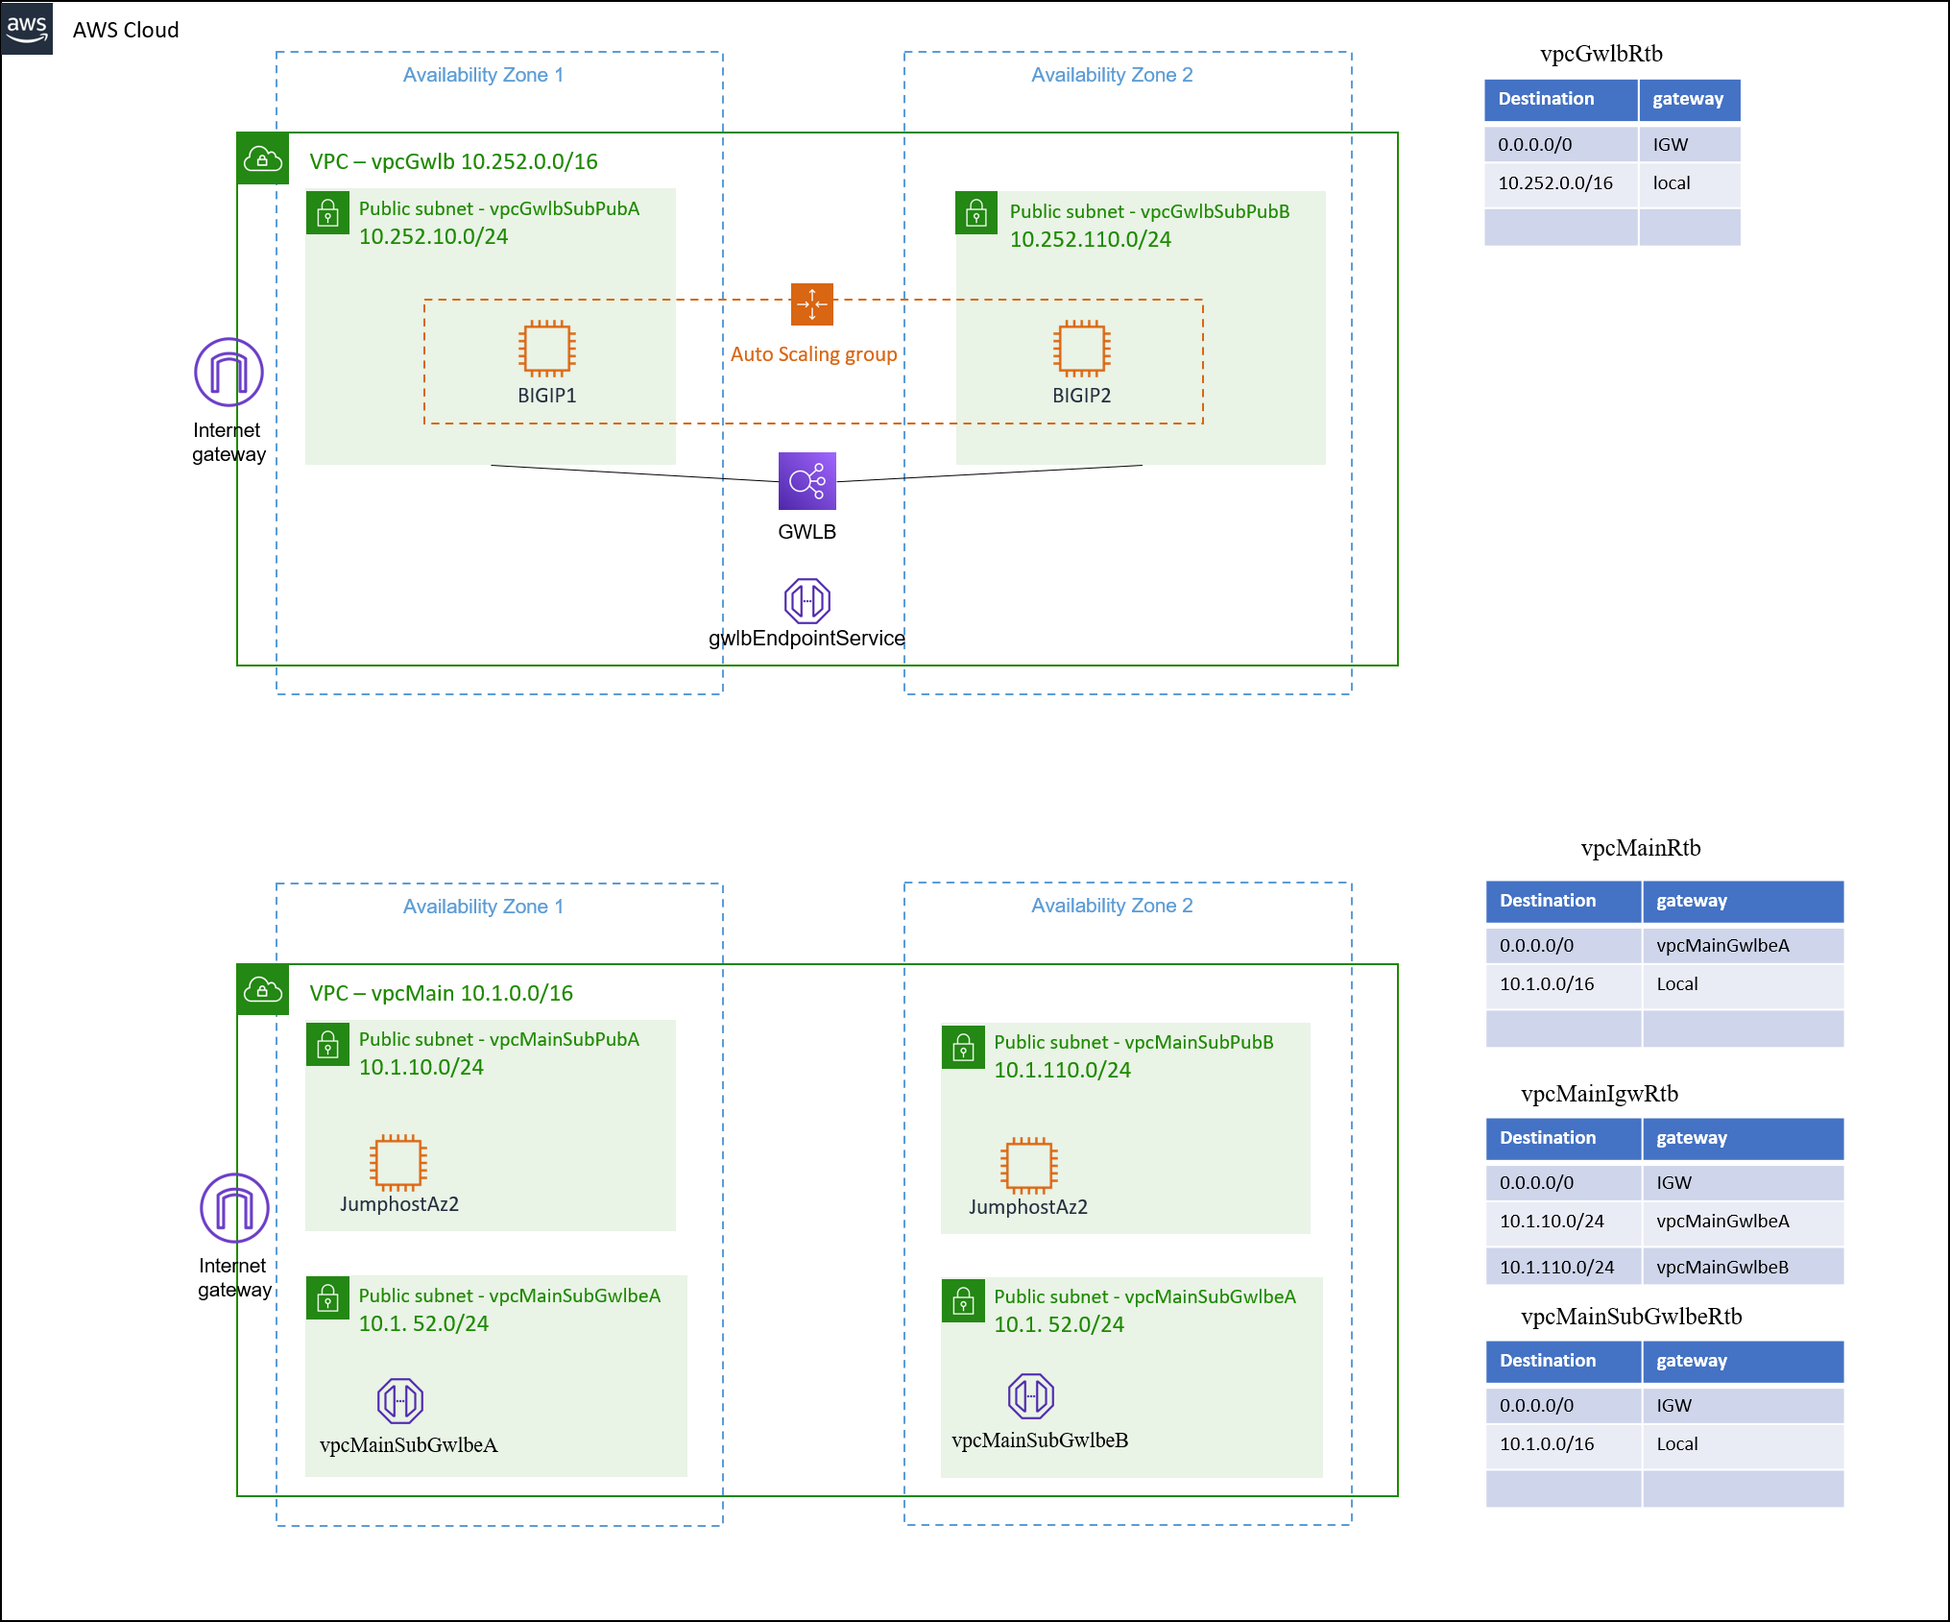
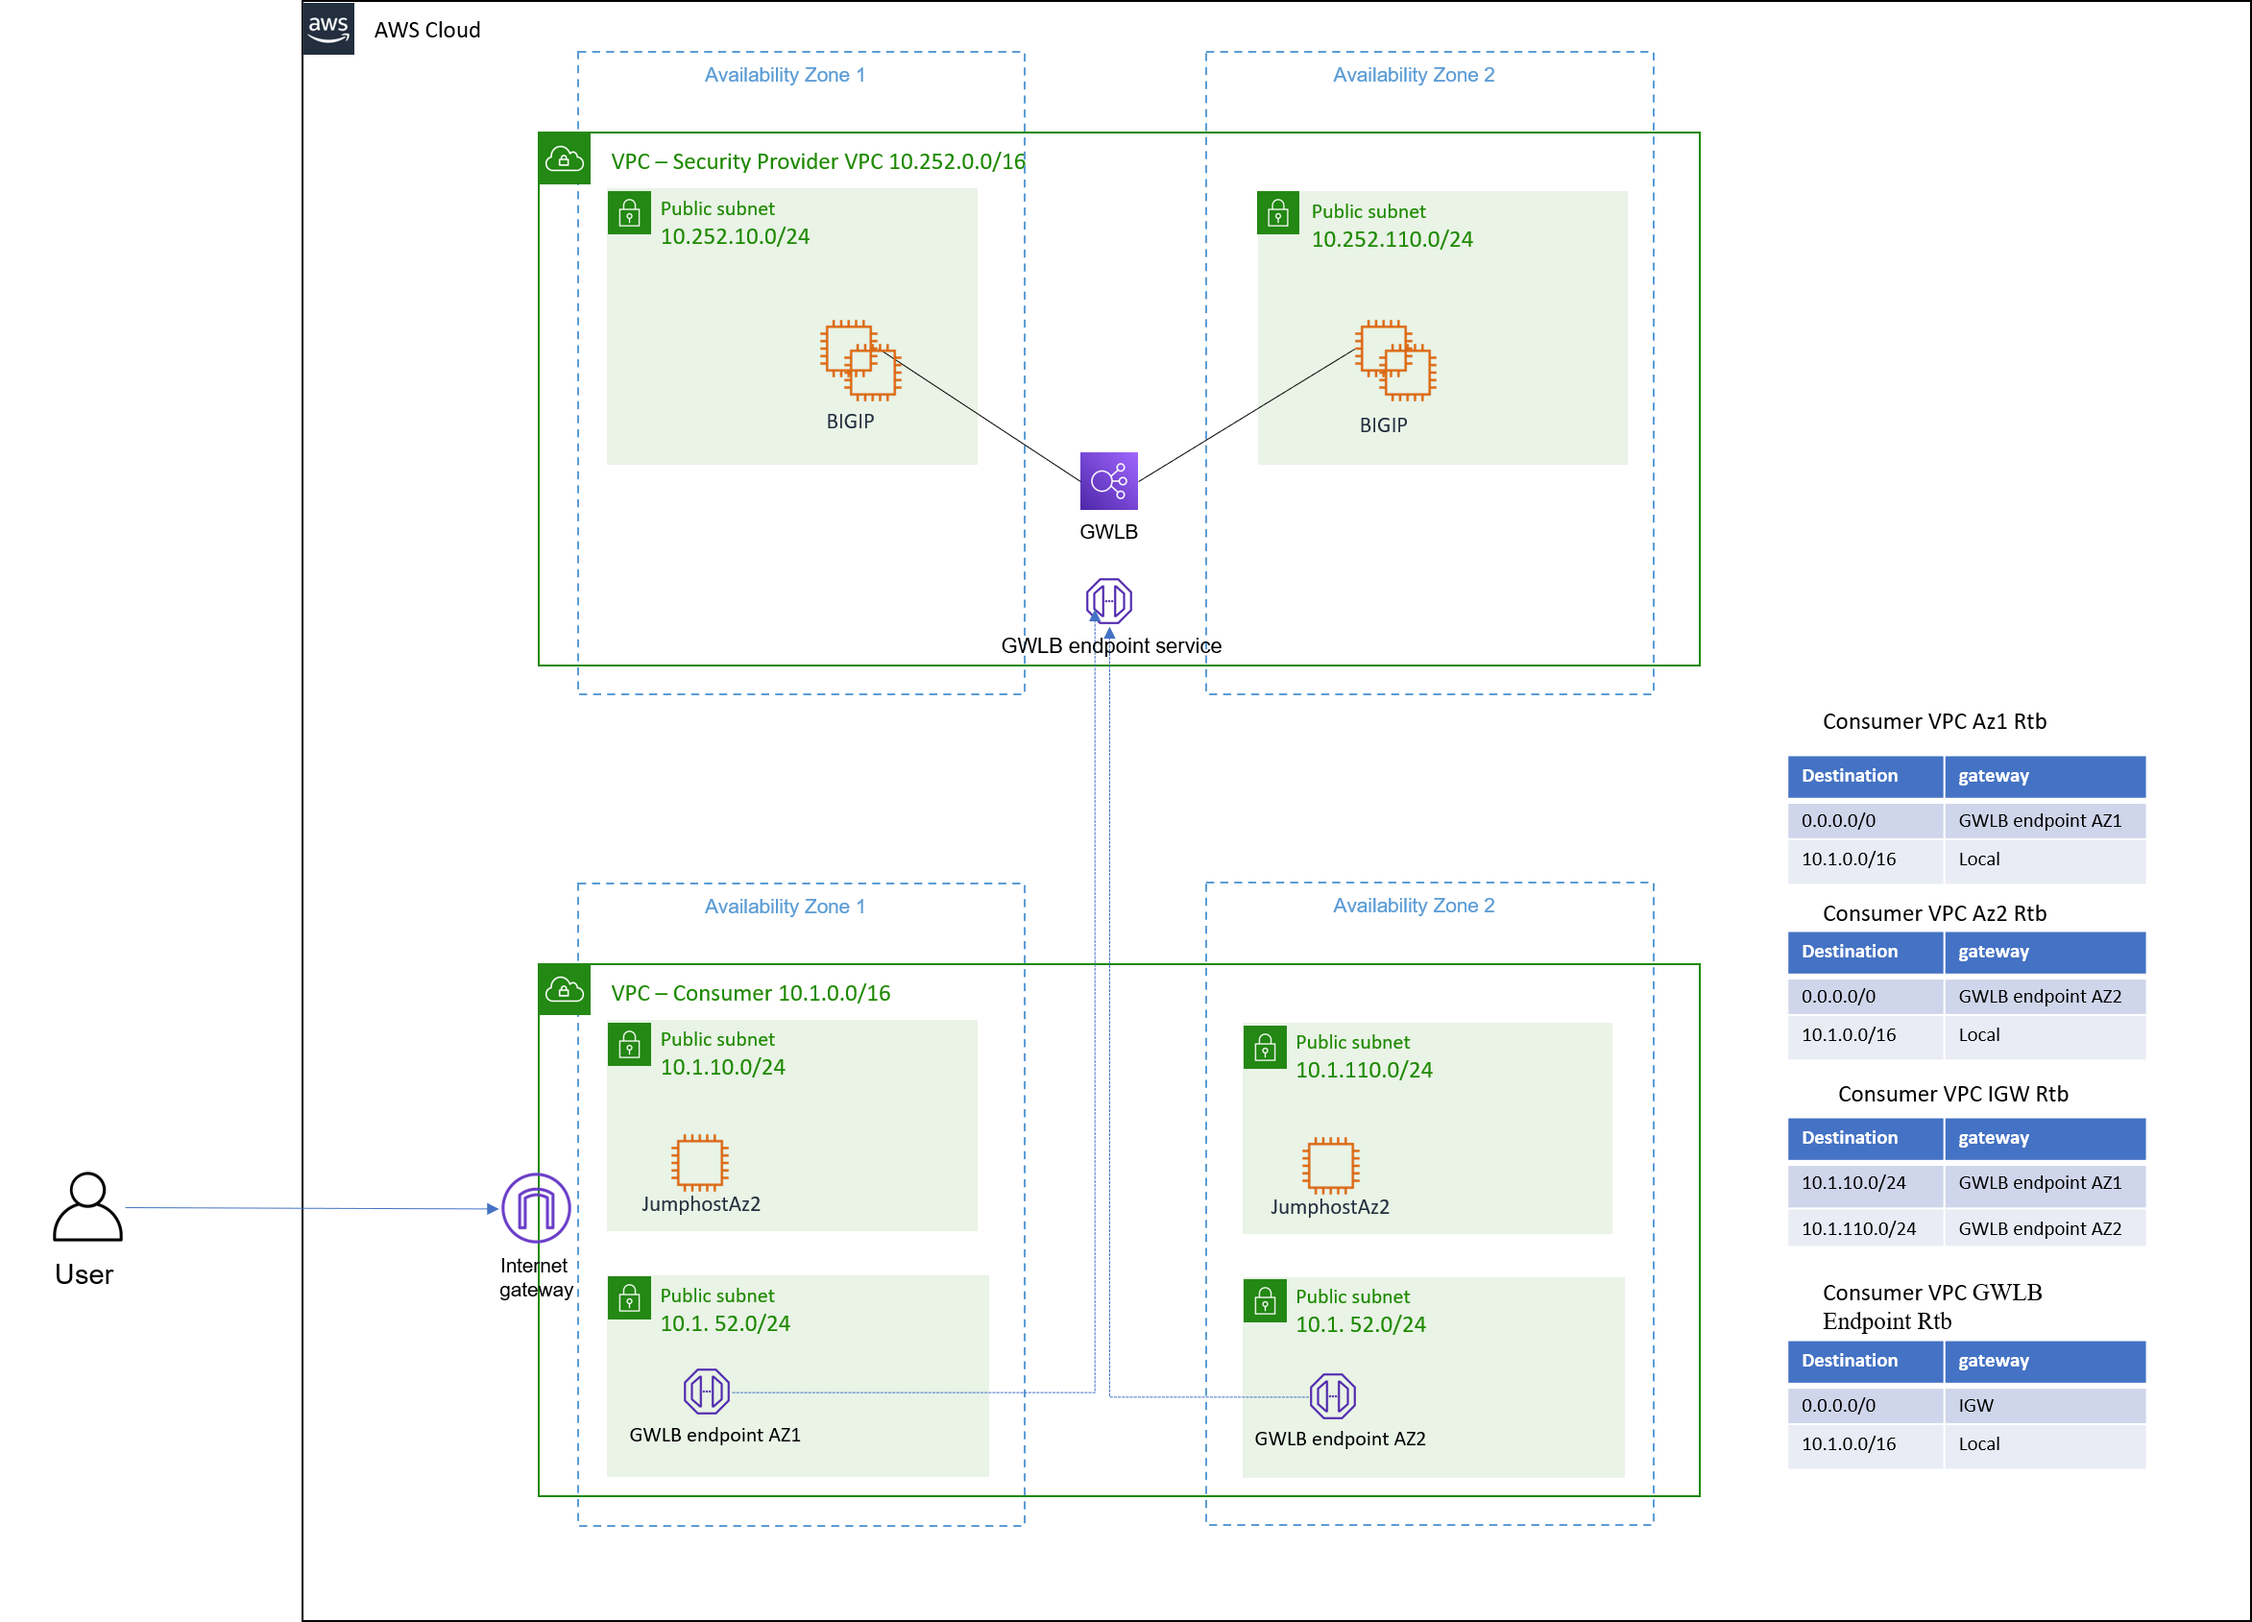
BIGIP to version 16.1 in GWLB solution, readme files updates

diff --git a/solutions/security/ingress-egress-inter-vpc-fw-gwlb/README.md b/solutions/security/ingress-egress-inter-vpc-fw-gwlb/README.md
@@ -3,13 +3,17 @@ ingress-egress and inter-vpc firewall in AWS using AFM and GWLB
 
 ## Diagram
 
-![ingress-egress firewall to a single VPC using GWLB](ingress-egress-inter-vpc-fw.png)
+![ingress-egress-inter-vpc firewall using GWLB](ingress-egress-inter-vpc-WITH-sec.png)
 
+![Spoke10 to the internet traffic flow](spoke10-to-internet.png)
 
+![Spoke10 to spoke20 traffic flow](spoke10-to-spoke20.png)
+
+![user to spoke10 service traffic flow](user-to-spoke10-service.png)
 ## Requirements
 
 - Solution was tested only on us-west-2, the region has to support GWLB.
-- Subscribe to the F5 PAYG-Best 200Mbps image from the AWS marketplace - https://aws.amazon.com/marketplace/pp/B079C3N5PX?qid=1614637412553&sr=0-1&ref_=srh_res_product_title
+- Subscribe to the F5 PAYG-Best 1Gbps image from the AWS marketplace - https://aws.amazon.com/marketplace/pp/prodview-atilk7h6dqu6k?ref_=srh_res_product_title
 
 ## Usage example
 
@@ -26,18 +30,25 @@ cp admin.auto.tfvars.example admin.auto.tfvars
 # MODIFY TO YOUR SETTINGS
 ```
 
-run the setup script to deploy all of the components into your AWS account (remember that you are responsible for the cost of those components)
+run the terraform plan to deploy all of the components into your AWS account (remember that you are responsible for the cost of those components)
 
 ```bash
-./setup.sh
+terraform init
+terraform plan
+terraform apply
 ```
 
 ## BIGIP configuration steps
 
 Connect to the BIGIP using the bigipPublicIp and bigipPassword over port 8443. https://quickstart:bigipPassword@bigipPublicIp:8443
 
-Upload the 16.1 ISO image, install it and boot the BIGIP.
+Username: quickstart
 
+Password: bigipPassword output value
+
+Please note it takes a few minutes for the BIGIP to complete the onboarding process, once it's done you will be able to ssh into the jumphost.
+
+The BIGIP gets configured with a forwarding virtual server to route accept the traffic inside the GENEVE tunnel and apply relevant security controls on it.
 
 Create your AFM policy and logging configuration
 
@@ -64,7 +75,7 @@ monitor the traffic in AFM
 use the following command to destroy all of the resources
 
 ```bash
-./destroy.sh
+terraform destroy
 ```
 
 ## Providers

diff --git a/solutions/security/ingress-egress-fw/README.md b/solutions/security/ingress-egress-fw/README.md
@@ -5,13 +5,13 @@ ingress-egress firewall to a single VPC using GWLB
 
 ![ingress-egress firewall to a single VPC using GWLB](gwlb-fw.png)
 
-![logical-diagram - Follow the packet](logical-diagram.png)
+![Ingress traffic flow - Follow the packet](ingress-traffic-flow.png)
 
-
+![Egress traffic flow - Follow the packet](Egress-traffic-flow.png)
 ## Requirements
 
 - Solution was tested only on us-west-2, the region has to support GWLB.
-- Subscribe to the F5 PAYG-Best 200Mbps image from the AWS marketplace - https://aws.amazon.com/marketplace/pp/B079C3N5PX?qid=1614637412553&sr=0-1&ref_=srh_res_product_title
+- Subscribe to the F5 PAYG-Best 1Gbps image from the AWS marketplace - https://aws.amazon.com/marketplace/pp/prodview-atilk7h6dqu6k?ref_=srh_res_product_title
 
 ## Usage example
 
@@ -38,9 +38,13 @@ run the setup script to deploy all of the components into your AWS account (reme
 
 Connect to the BIGIP using the bigipPublicIp and bigipPassword over port 8443. https://quickstart:bigipPassword@bigipPublicIp:8443
 
-Upload the 16.1 ISO image and boot the BIGIP.
+Username: quickstart
 
+Password: bigipPassword output value
 
+Please note it takes a few minutes for the BIGIP to complete the onboarding process, once it's done you will be able to ssh into the jumphost.
+
+The BIGIP gets configured with a forwarding virtual server to route accept the traffic inside the GENEVE tunnel and apply relevant security controls on it.
 
 Create your AFM policy and logging configuration
 
